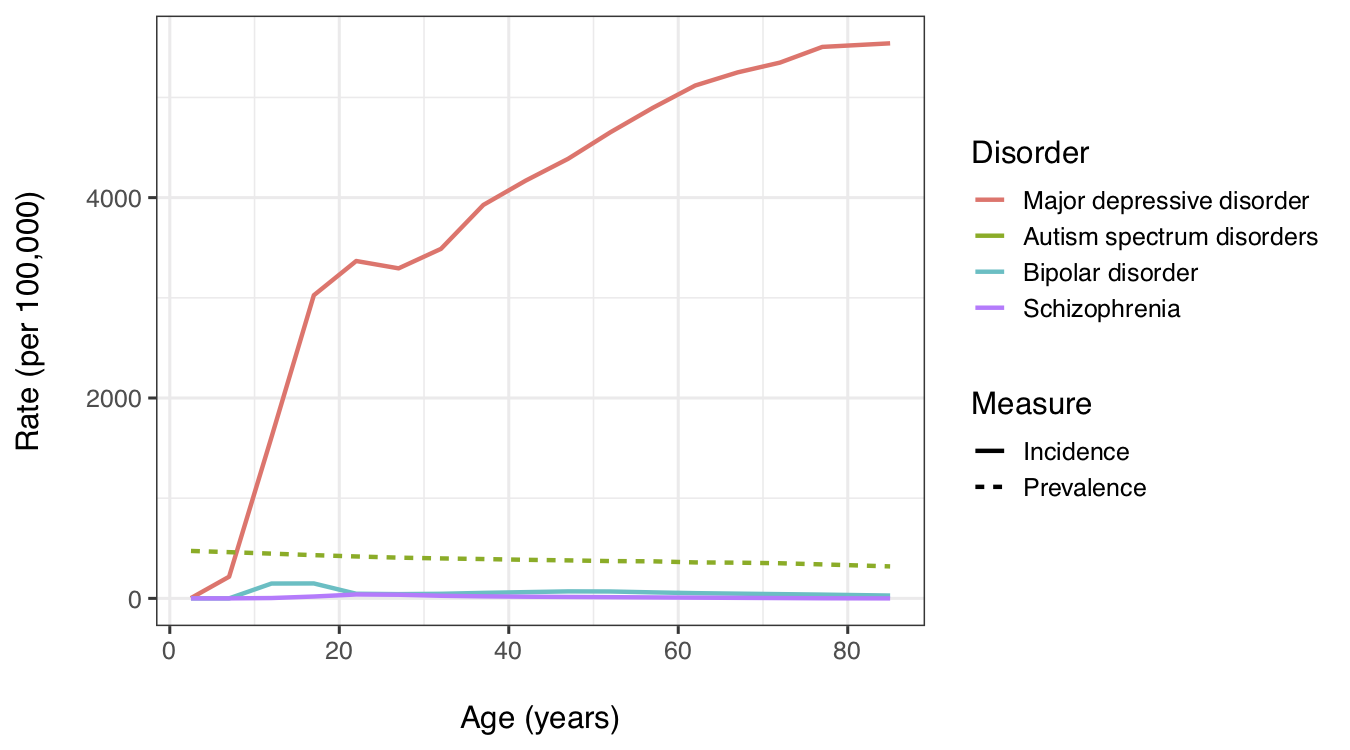
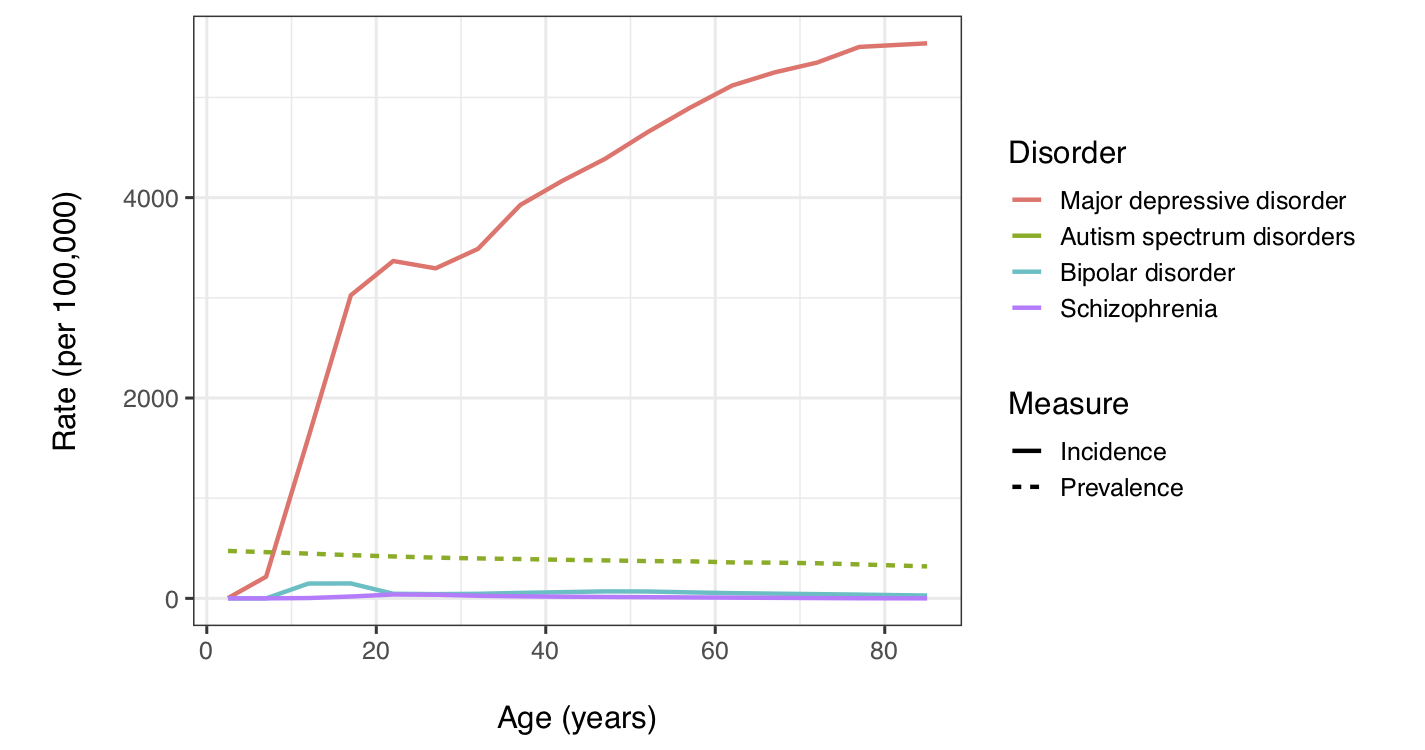
Updated image aspect ratio

diff --git a/posts/2018-12-16-seven-reasons-why-most-major-depression-is-probably-not-a-brain-disorder/index.html b/posts/2018-12-16-seven-reasons-why-most-major-depression-is-probably-not-a-brain-disorder/index.html
@@ -103,7 +103,7 @@ code span.wa { color: #5e5e5e; font-style: italic; } /* Warning */
 <meta property="og:type" content="article"/>
 <meta property="og:url" content="https://grasshoppermouse.github.io/posts/2018-12-16-seven-reasons-why-most-major-depression-is-probably-not-a-brain-disorder/"/>
 <meta property="og:image" content="https://grasshoppermouse.github.io/posts/2018-12-16-seven-reasons-why-most-major-depression-is-probably-not-a-brain-disorder/../../images/developmentaldisorders.png"/>
-<meta property="og:image:width" content="1350"/>
+<meta property="og:image:width" content="1425"/>
 <meta property="og:image:height" content="750"/>
 <meta property="og:locale" content="en_US"/>
 <meta property="og:site_name" content="Grasshoppermouse"/>
@@ -113,7 +113,7 @@ code span.wa { color: #5e5e5e; font-style: italic; } /* Warning */
 <meta property="twitter:title" content="Grasshoppermouse: Seven reasons why most Major Depression is probably not a brain disorder"/>
 <meta property="twitter:url" content="https://grasshoppermouse.github.io/posts/2018-12-16-seven-reasons-why-most-major-depression-is-probably-not-a-brain-disorder/"/>
 <meta property="twitter:image" content="https://grasshoppermouse.github.io/posts/2018-12-16-seven-reasons-why-most-major-depression-is-probably-not-a-brain-disorder/../../images/developmentaldisorders.png"/>
-<meta property="twitter:image:width" content="1350"/>
+<meta property="twitter:image:width" content="1425"/>
 <meta property="twitter:image:height" content="750"/>
 <meta property="twitter:creator" content="@ed_hagen"/>
 
@@ -2745,7 +2745,7 @@ of Disease Study. Here are the results for MD compared to three common
 developmental brain disorders:</p>
 <div class="layout-chunk" data-layout="l-body">
 <div class="figure"><span style="display:block;" id="fig:developmental"></span>
-<img src="../../images/developmentaldisorders.png" alt="Major depression incidence compared to epidemiology of brain disorders that appear to be due to developmental disruption. Data from the Global Burden of Disease study 2017 and [healthdata.org](http://www.healthdata.org/results/data-visualizations)." width="675" />
+<img src="../../images/developmentaldisorders.png" alt="Major depression incidence compared to epidemiology of brain disorders that appear to be due to developmental disruption. Data from the Global Burden of Disease study 2017 and [healthdata.org](http://www.healthdata.org/results/data-visualizations)." width="712" />
 <p class="caption">
 Figure 7: Major depression incidence compared to epidemiology
 of brain disorders that appear to be due to developmental disruption.
